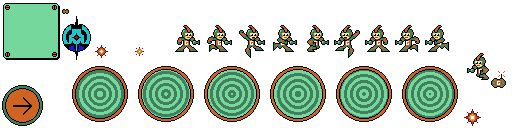
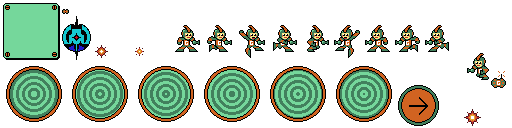
Add progress on mobile controls

diff --git a/GigaGalPrototype/core/src/com/udacity/gamedev/gigagal/GameplayScreen.java b/GigaGalPrototype/core/src/com/udacity/gamedev/gigagal/GameplayScreen.java
@@ -9,20 +9,25 @@ import com.badlogic.gdx.utils.viewport.ExtendViewport;
 import com.udacity.gamedev.gigagal.util.Assets;
 import com.udacity.gamedev.gigagal.util.ChaseCam;
 import com.udacity.gamedev.gigagal.util.Constants;
+import com.udacity.gamedev.gigagal.overlays.GigaGalHud;
+import com.udacity.gamedev.gigagal.overlays.OnscreenControls;
 
 
 public class GameplayScreen extends ScreenAdapter {
 
     public static final String TAG = GameplayScreen.class.getName();
 
-    Level level;
     ExtendViewport gameplayViewport;
-
-    GigaGalHud hud;
-    ExtendViewport hudViewport;
-    SpriteBatch batch;
-
+    Level level;
     ChaseCam chaseCam;
+
+    ExtendViewport hudViewport;
+    GigaGalHud hud;
+
+    ExtendViewport onscreenControlsViewport;
+    OnscreenControls onscreenControls;
+
+    SpriteBatch batch;
 
 
     @Override
@@ -37,14 +42,22 @@ public class GameplayScreen extends ScreenAdapter {
         //        level = LevelLoader.load("levels/intro_level.json", gameplayViewport);
         chaseCam = new ChaseCam(gameplayViewport.getCamera(), level.getGigaGal());
 
-        hudViewport = new ExtendViewport(Constants.HUD_VIEWPORT_WIDTH, Constants.HUD_VIEWPORT_HEIGHT);
+        hudViewport = new ExtendViewport(Constants.HUD_VIEWPORT_SIZE, Constants.HUD_VIEWPORT_SIZE);
         hud = new GigaGalHud(hudViewport);
+
+        ExtendViewport onscreenControlsViewport = new ExtendViewport(
+                Constants.ONSCREEN_CONTROLS_VIEWPORT_SIZE,
+                Constants.ONSCREEN_CONTROLS_VIEWPORT_SIZE);
+
+
+        onscreenControls = new OnscreenControls(onscreenControlsViewport);
     }
 
     @Override
     public void resize(int width, int height) {
         gameplayViewport.update(width, height, true);
-        hudViewport.update(width, height,true);
+        hudViewport.update(width, height, true);
+        onscreenControlsViewport.update(width, height, true);
     }
 
     @Override
@@ -75,15 +88,14 @@ public class GameplayScreen extends ScreenAdapter {
         batch.setProjectionMatrix(hudViewport.getCamera().combined);
         batch.begin();
         hud.render(batch);
-
         batch.end();
 
-
+        onscreenControlsViewport.apply();
 
 
     }
 
-    public void levelComplete(){
+    public void levelComplete() {
 
     }
 }

diff --git a/GigaGalPrototype/core/src/com/udacity/gamedev/gigagal/util/Constants.java b/GigaGalPrototype/core/src/com/udacity/gamedev/gigagal/util/Constants.java
@@ -8,7 +8,7 @@ public class Constants {
     // World/Camera
     public static final Color BACKGROUND_COLOR = Color.SKY;
     public static final float WORLD_SIZE = 160;
-    public static final float KILL_PLANE = -100;
+    public static final float KILL_PLANE = -200;
     public static final float GRAVITY = 10;
     public static final float CHASE_CAM_MOVE_SPEED = WORLD_SIZE;
 
@@ -18,7 +18,7 @@ public class Constants {
     // GigaGal
     public static final Vector2 GIGAGAL_EYE_POSITION = new Vector2(16, 24);
     public static final float GIGAGAL_EYE_HEIGHT = 16.0f;
-    public static final float GIGAGAL_STANCE_WIDTH = 21.0f;
+    public static final float GIGAGAL_STANCE_WIDTH = 19.0f;
     public static final Vector2 GIGAGAL_CANNON_OFFSET = new Vector2(12, -7);
     public static final float GIGAGAL_HEIGHT = 23.0f;
     public static final float GIGAGAL_MOVE_SPEED = 100;
@@ -83,15 +83,19 @@ public class Constants {
     public static final float EXIT_PORTAL_FRAME_DURATION = 0.1f;
 
     // HUD
-    public static final float HUD_VIEWPORT_WIDTH = 640;
-    public static final float HUD_VIEWPORT_HEIGHT = 480;
-
+    public static final float HUD_VIEWPORT_SIZE = 480;
 
 
     // Onscreen Controls
+    public static final float ONSCREEN_CONTROLS_VIEWPORT_SIZE = 160;
+
+
     public static final String MOVE_LEFT_BUTTON = "move-left-button";
     public static final String MOVE_RIGHT_BUTTON = "move-right-button";
     public static final String SHOOT_BUTTON = "shoot-button";
     public static final String JUMP_BUTTON = "jump-button";
+
+    public static final Vector2 BUTTON_CENTER = new Vector2(16, 16);
+    public static final Vector2 MOVE_RIGHT_CENTER = new Vector2(20, 30);
 
 }

diff --git a/GigaGalPrototype/core/src/com/udacity/gamedev/gigagal/util/Assets.java b/GigaGalPrototype/core/src/com/udacity/gamedev/gigagal/util/Assets.java
@@ -25,6 +25,7 @@ public class Assets implements Disposable, AssetErrorListener {
     public ExplosionAssets explosionAssets;
     public PowerupAssets powerupAssets;
     public ExitPortalAssets exitPortalAssets;
+    public OnscreenControlsAssets onscreenControlsAssets;
 
     private AssetManager assetManager;
 
@@ -46,6 +47,7 @@ public class Assets implements Disposable, AssetErrorListener {
         explosionAssets = new ExplosionAssets(atlas);
         powerupAssets = new PowerupAssets(atlas);
         exitPortalAssets = new ExitPortalAssets(atlas);
+        onscreenControlsAssets = new OnscreenControlsAssets(atlas);
     }
 
     @Override
@@ -167,6 +169,17 @@ public class Assets implements Disposable, AssetErrorListener {
 
             exitPortal = new Animation(Constants.EXIT_PORTAL_FRAME_DURATION, exitPortalFrames);
         }
+    }
+
+    public class OnscreenControlsAssets {
+
+        public final AtlasRegion moveRight;
+
+        public OnscreenControlsAssets(TextureAtlas atlas){
+            moveRight = atlas.findRegion(Constants.MOVE_RIGHT_BUTTON);
+        }
+
+
     }
 
 }

diff --git a/GigaGalPrototype/core/src/com/udacity/gamedev/gigagal/overlays/OnscreenControls.java b/GigaGalPrototype/core/src/com/udacity/gamedev/gigagal/overlays/OnscreenControls.java
@@ -1,0 +1,36 @@
+package com.udacity.gamedev.gigagal.overlays;
+
+import com.badlogic.gdx.InputAdapter;
+import com.badlogic.gdx.graphics.g2d.SpriteBatch;
+import com.badlogic.gdx.utils.viewport.Viewport;
+import com.udacity.gamedev.gigagal.util.Assets;
+import com.udacity.gamedev.gigagal.util.Constants;
+import com.udacity.gamedev.gigagal.util.Utils;
+
+
+public class OnscreenControls extends InputAdapter {
+
+
+    public OnscreenControls(Viewport viewport) {
+
+    }
+
+    @Override
+    public boolean touchDown(int screenX, int screenY, int pointer, int button) {
+        return super.touchDown(screenX, screenY, pointer, button);
+    }
+
+
+    public void render(SpriteBatch batch) {
+
+        Utils.drawTextureRegion(
+                batch,
+                Assets.instance.onscreenControlsAssets.moveRight,
+                Constants.MOVE_RIGHT_CENTER,
+                Constants.BUTTON_CENTER
+        );
+
+    }
+
+
+}

diff --git a/GigaGalPrototype/core/src/com/udacity/gamedev/gigagal/overlays/GigaGalHud.java b/GigaGalPrototype/core/src/com/udacity/gamedev/gigagal/overlays/GigaGalHud.java
@@ -1,4 +1,4 @@
-package com.udacity.gamedev.gigagal;
+package com.udacity.gamedev.gigagal.overlays;
 
 
 import com.badlogic.gdx.graphics.g2d.BitmapFont;
